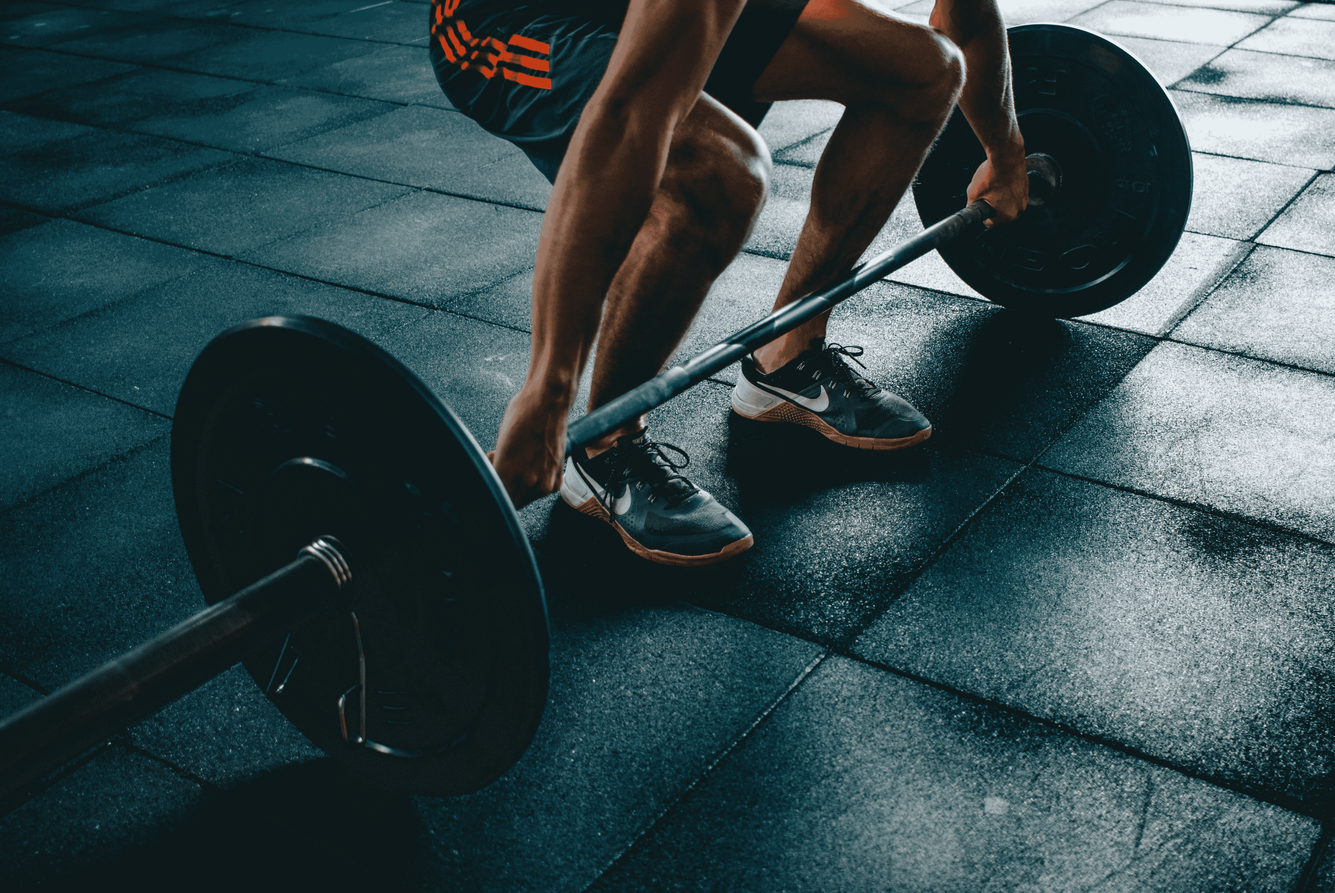
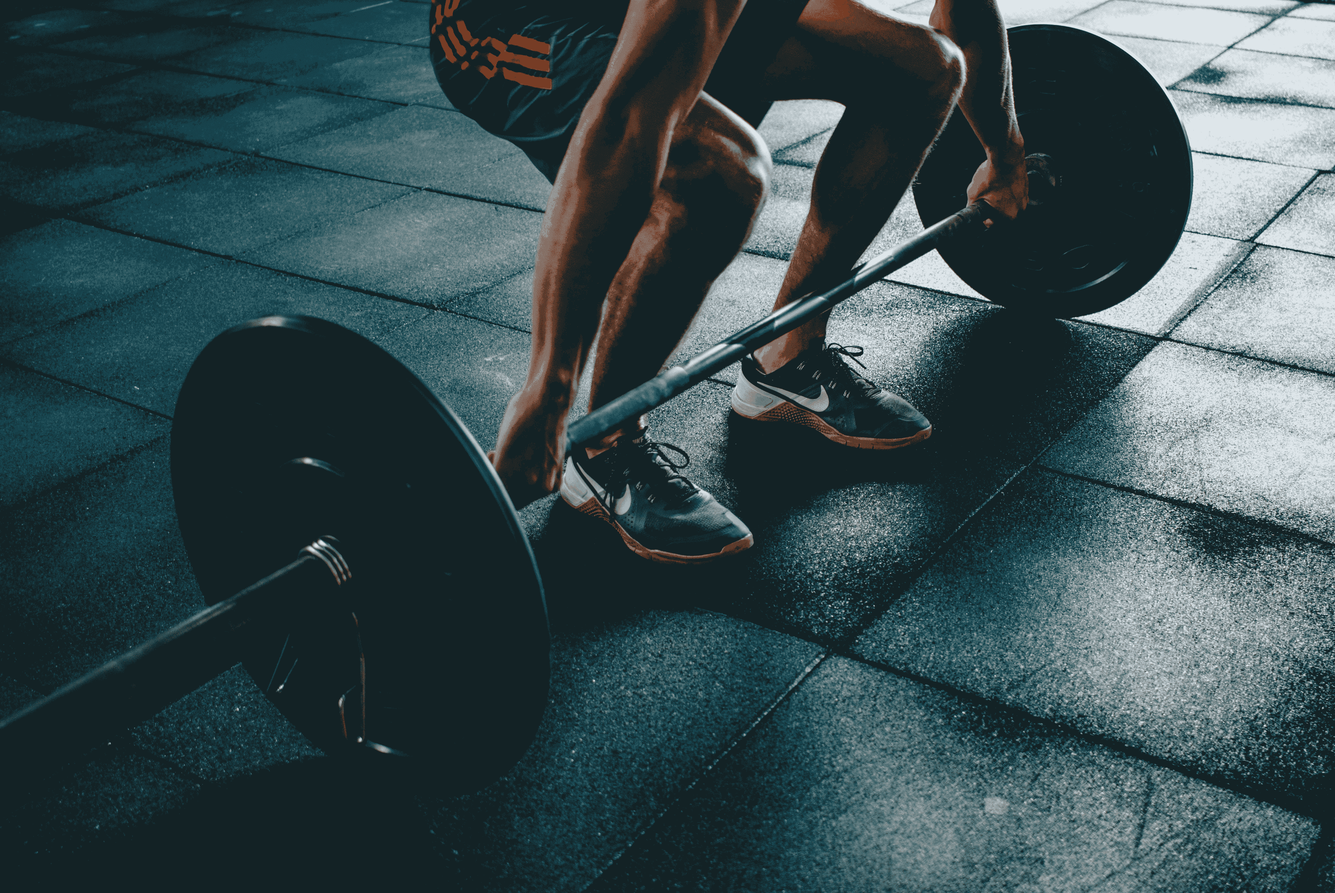
UI changes

diff --git a/style.css b/style.css
@@ -1,5 +1,3 @@
-@import url('https://fonts.googleapis.com/css2?family=IBM+Plex+Sans:ital,wght@0,100;0,200;0,300;0,400;0,500;0,600;0,700;1,100;1,200;1,300;1,400;1,500;1,600;1,700&family=Orbitron:wght@400..900&family=Outfit:wght@100..900&family=Poppins:ital,wght@0,100;0,200;0,300;0,400;0,500;0,600;0,700;0,800;0,900;1,100;1,200;1,300;1,400;1,500;1,600;1,700;1,800;1,900&display=swap');
-
 *{
     padding: 0;
     margin: 0;
@@ -15,7 +13,10 @@ body{
 .main{
     user-select: none;
     position: relative;
-    height: min(100vh, 750px);
+    /* height: min(100vh, 750px); */
+    min-height: 750px;
+    max-height: 100vh;
+    height: auto;
     background: 
     linear-gradient(
         to bottom, 
@@ -23,7 +24,7 @@ body{
         rgba(20, 20, 20, 0.4) 50%,
         #141414 100%
     ),
-    url('resources/bgDesktop.JPG') no-repeat top center/cover;
+    url('resources/bgDesktop.webp') no-repeat top center/cover;
 background-size: max(1500px, 100vw);
 }
 .main > .box{
@@ -59,7 +60,7 @@ nav > span > #navLogo{
     cursor: pointer;
     z-index: 2;
     position: relative;
-    background-image: url('/resources/contactBtn.png');
+    background-image: url('/resources/contactBtn.webp');
     background-size: cover;
     background-repeat: no-repeat;
     background-position: center; 
@@ -118,37 +119,93 @@ nav > span > #navLogo{
     justify-content: center;
     padding: 70px 0;
 }
-.moves > .boxes > .gym > .text, .moves > .boxes > .zumba > .text, .moves > .boxes > .yoga > .text{
+.moves > .boxes > .gym > .text{
     position: absolute;
     bottom: 20px;
     left: 10px;
     font-size: 36px;
+    background-color: rgb(50, 50, 50, 0.7);
+}
+.moves > .boxes > .zumba > .text{
+    position: absolute;
+    top: 20px;
+    right: 10px;
+    font-size: 36px;
+    background-color: rgb(50, 50, 50, 0.7);
 }
 .moves .gym {
-    width: 500px;
+    width: 350px;
     height: 400px;
     background: 
-        url('/resources/gym.png') no-repeat center / cover;
+        url('/resources/gym.webp') no-repeat center / cover;
     position: relative;
     border-top-left-radius: 8rem;
     background-position: center bottom;
     transition: width 0.3s ease;
 }
+.moves .gym:hover {
+    width: 500px;
+    height: 400px;
+}
+.gym .overlay{
+    border-top-left-radius: 8rem;
+    position: absolute;
+    top: 0;
+    left: 0;
+    width: 100%;
+    height: 100%;
+    background-color: rgba(0, 0, 0, 0.5);
+    backdrop-filter: blur(10px);
+    display: flex;
+    align-items: center;
+    justify-content: center;
+    opacity: 0;
+    transition: opacity 0.3s ease;
+}
+.moves .gym:hover .overlay {
+    opacity: 1;
+}
+.gym .infoOverlay{
+    font-size: 40px;
+    font-weight: 700;
+    text-align: center;
+}
 .moves .zumba{
     background: 
-    url('/resources/zumba.png') no-repeat center top/cover;
-    width: 170px;
+    url('/resources/zumba2.jpg') no-repeat center/cover;
+    width: 350px;
     position: relative;
     height: 400px;
-    border-top-left-radius: 5rem;
+    border-bottom-right-radius: 8rem;
+    transition: width 0.3s ease;
 }
-.moves .yoga{
-    background: 
-    url('/resources/yoga.png') no-repeat center top/cover;
-    width: 170px;
-    position: relative;
+
+.moves .zumba:hover {
+    width: 500px;
     height: 400px;
-    border-top-left-radius: 5rem;
+}
+.zumba .overlay{
+    border-bottom-right-radius: 8rem;
+    position: absolute;
+    top: 0;
+    left: 0;
+    width: 100%;
+    height: 100%;
+    background-color: rgba(0, 0, 0, 0.5);
+    backdrop-filter: blur(10px);
+    display: flex;
+    align-items: center;
+    justify-content: center;
+    opacity: 0;
+    transition: opacity 0.3s ease;
+}
+.moves .zumba:hover .overlay {
+    opacity: 1;
+}
+.zumba .infoOverlay{
+    font-size: 40px;
+    font-weight: 700;
+    text-align: center;
 }
 .separator{
     height: 3px;
@@ -205,7 +262,7 @@ nav > span > #navLogo{
 }
 .contacts {
     cursor: default;
-    background-image: url('/resources/bgblend2.png');
+    background-image: url('/resources/bgblend2.webp');
     background-size: cover;
     position: relative;
     z-index: 2;
@@ -294,12 +351,12 @@ nav > span > #navLogo{
         background: 
     linear-gradient(
         to bottom, 
-        rgba(0, 0, 0, 0.4) 0%,
-        rgba(20, 20, 20, 0.4) 50%,
+        rgba(0, 0, 0, 0.7) 0%,
+        rgba(20, 20, 20, 0.7) 50%,
         #141414 100%
     ),
-    url('/resources/bgMobile.JPG') no-repeat top center/cover;
-background-size: max(900px, 100vw);
+    url('/resources/bgMobile2.webp') no-repeat center center/cover;
+background-size: max(530px, 100vw);
     }
     nav{
         padding-top: 20px;
@@ -376,38 +433,50 @@ background-size: max(900px, 100vw);
         padding-bottom: 50px;
     }
     .moves .boxes {
-        display: grid;
+        /* display: grid;
         grid-template-columns: 1fr 1fr;
-        grid-template-rows: auto auto;
-        gap: 36px;
+        grid-template-rows: auto auto; */
+        display: flex;
+        flex-wrap: wrap;
+        /* gap: 36px; */
         justify-items: center;
         margin: auto;
         padding: 0 10px;
         width: 300px;
     }
     .boxes .gym {
-        grid-column: 1 / 3;
-        grid-row: 1;
         width: 100%;
         height: 300px;
         border-bottom-right-radius: 2rem;
+        transition: height 0.3s ease;
+    }
+    .boxes .gym:hover{
+        width: 100%;
+        height: 300px;
+        transition: none;
+    }
+    .boxes .gym.active {
+        height: 350px;
+        transition: height 0.3s ease;
     }
     .boxes .zumba {
-        grid-column: 1 / 2;
-        grid-row: 2;
         width: 100%;
         height: 300px;
-        border-bottom-right-radius: 2rem;
+        border-top-left-radius: 2rem;
+        border-bottom-right-radius: 5rem;
+        transition: height 0.3s ease;
+    }
+    .boxes .zumba:hover{
+        width: 100%;
+        height: 300px;
+        transition: none;
     }
     
-    .boxes .yoga {
-        grid-column: 2 / 3;
-        grid-row: 2;
-        width: 100%;
-        height: 300px;
-        border-bottom-right-radius: 2rem;
+    .boxes .zumba.active {
+        height: 350px;
+        transition: height 0.3s ease;
     }
-    .moves > .boxes > .gym > .text, .moves > .boxes > .zumba > .text, .moves > .boxes > .yoga > .text{
+    .moves > .boxes > .gym > .text, .moves > .boxes > .zumba > .text{
         font-size: 25px;
     }
 }

diff --git a/index.html b/index.html
@@ -4,13 +4,22 @@
     <meta charset="UTF-8" />
     <meta name="viewport" content="width=device-width, initial-scale=1.0" />
     <title>H2O TheMultiGym</title>
+    <link rel="preconnect" href="https://fonts.googleapis.com">
+    <link rel="preload" href="https://fonts.googleapis.com/css2?family=IBM+Plex+Sans:ital,wght@0,100;0,200;0,300;0,400;0,500;0,600;0,700;1,100;1,200;1,300;1,400;1,500;1,600;1,700&family=Orbitron:wght@400..900&family=Outfit:wght@100..900&family=Poppins:ital,wght@0,100;0,200;0,300;0,400;0,500;0,600;0,700;0,800;0,900&display=swap" as="style" onload="this.onload=null;this.rel='stylesheet'">
+    <noscript>
+    <link rel="stylesheet" href="https://fonts.googleapis.com/css2?family=IBM+Plex+Sans:ital,wght@0,100;0,200;0,300;0,400;0,500;0,600;0,700;1,100;1,200;1,300;1,400;1,500;1,600;1,700&family=Orbitron:wght@400..900&family=Outfit:wght@100..900&family=Poppins:ital,wght@0,100;0,200;0,300;0,400;0,500;0,600;0,700;0,800;0,900&display=swap">
+    </noscript>
+
+    <noscript>
+    <link rel="stylesheet" href="https://fonts.googleapis.com/css2?family=IBM+Plex+Sans:ital,wght@0,100;0,200;0,300;0,400;0,500;0,600;0,700;1,100;1,200;1,300;1,400;1,500;1,600;1,700&family=Orbitron:wght@400..900&family=Outfit:wght@100..900&family=Poppins:ital,wght@0,100;0,200;0,300;0,400;0,500;0,600;0,700;0,800;0,900&display=swap">
+    </noscript>
     <link rel="stylesheet" href="style.css" />
   </head>
   <body>
     <div class="main">
       <nav>
         <span>
-          <img id="navLogo" src="/resources/headerLogo.png" alt="logo" />
+          <img id="navLogo" src="/resources/headerLogo.webp" alt="logo" />
         </span>
         <span>
           <button id="navBtn">Contact Us</button>
@@ -39,12 +48,19 @@
       <div class="boxes">
         <div class="gym">
           <div class="text">Gym</div>
+          <div class="overlay">
+            <div class="infoOverlay">
+              NEVER<br>GONNA<br>GIVE<br>YOU UP!
+            </div>
+          </div>
         </div>
         <div class="zumba">
           <div class="text">Zumba</div>
-        </div>
-        <div class="yoga">
-          <div class="text">Yoga</div>
+          <div class="overlay">
+            <div class="infoOverlay">
+              I<br>Want<br>It That<br>WAY!!!
+            </div>
+          </div>
         </div>
       </div>
     </div>
@@ -81,14 +97,14 @@
             h2ogymbarasat@gmail.com
           </div>
           <div class="icons">
-            <a href="tel:+916289588920"><img src="/resources/call.svg" alt=""></a>
-            <a href="mailto:h2ogymbarasat@gmail.com"><img src="/resources/email.svg" alt=""></a>
+            <a href="tel:+916289588920"><img src="/resources/call.svg" alt="dialer icon"></a>
+            <a href="mailto:h2ogymbarasat@gmail.com"><img src="/resources/email.svg" alt="mail icon"></a>
           </div>
         </div>
         <div class="addressInfo">
           <div class="title">Visit us</div>
           <div class="addr">PF8G+X8P, Krishnanagar Rd, Palpara, Barasat, Kolkata, West Bengal 700126 <br>
-            <iframe src="https://www.google.com/maps/embed?pb=!1m18!1m12!1m3!1d3680.2896658674185!2d88.47325811102233!3d22.717472479302845!2m3!1f0!2f0!3f0!3m2!1i1024!2i768!4f13.1!3m3!1m2!1s0x39f899d77cbe85d9%3A0xfd88c419ccbe39af!2sH2O%20The%20Multigym!5e0!3m2!1sen!2sin!4v1724838525624!5m2!1sen!2sin" width="200" height="150" style="border:0;border-radius:20px;margin:12px;" allowfullscreen="" loading="lazy" referrerpolicy="no-referrer-when-downgrade"></iframe>
+            <iframe title="Google maps" src="https://www.google.com/maps/embed?pb=!1m18!1m12!1m3!1d3680.2896658674185!2d88.47325811102233!3d22.717472479302845!2m3!1f0!2f0!3f0!3m2!1i1024!2i768!4f13.1!3m3!1m2!1s0x39f899d77cbe85d9%3A0xfd88c419ccbe39af!2sH2O%20The%20Multigym!5e0!3m2!1sen!2sin!4v1724838525624!5m2!1sen!2sin" width="200" height="150" style="border:0;border-radius:20px;margin:12px;" allowfullscreen="" loading="lazy" referrerpolicy="no-referrer-when-downgrade"></iframe>
           </div>
         </div>
       </div>

diff --git a/script.js b/script.js
@@ -3,3 +3,32 @@ document.querySelector('#navBtn').addEventListener('click', function() {
         behavior: 'smooth'
     });
 });
+
+document.addEventListener('DOMContentLoaded', function() {
+    const gymElement = document.querySelector('.gym');
+    
+    gymElement.addEventListener('click', function(event) {
+        event.stopPropagation();
+        gymElement.classList.toggle('active');
+    });
+
+    document.addEventListener('click', function(event) {
+        if (!gymElement.contains(event.target)) {
+            gymElement.classList.remove('active');
+        }
+    });
+});
+document.addEventListener('DOMContentLoaded', function() {
+    const zumbaElement = document.querySelector('.zumba');
+    
+    zumbaElement.addEventListener('click', function(event) {
+        event.stopPropagation();
+        zumbaElement.classList.toggle('active');
+    });
+
+    document.addEventListener('click', function(event) {
+        if (!zumbaElement.contains(event.target)) {
+            zumbaElement.classList.remove('active');
+        }
+    });
+});
